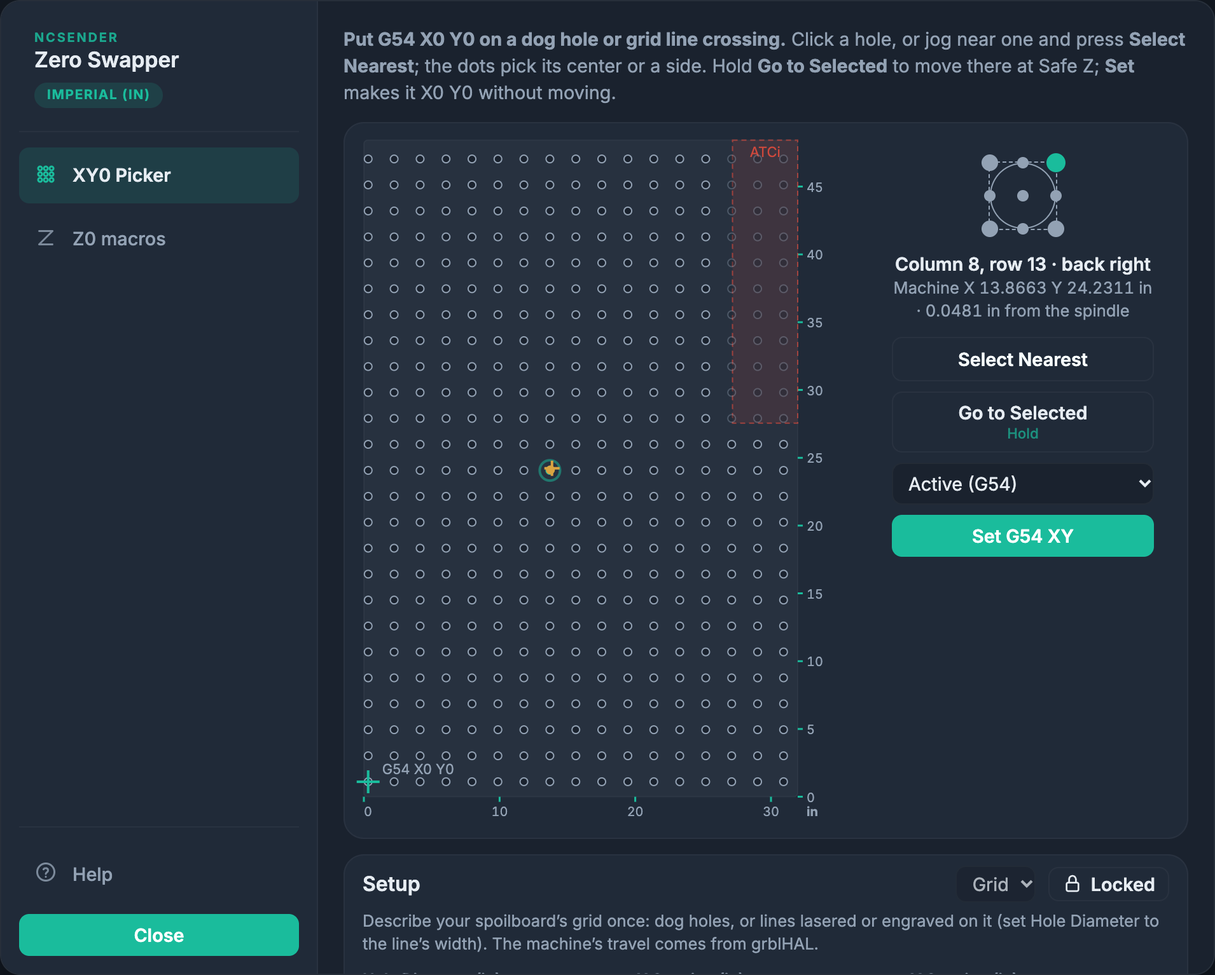
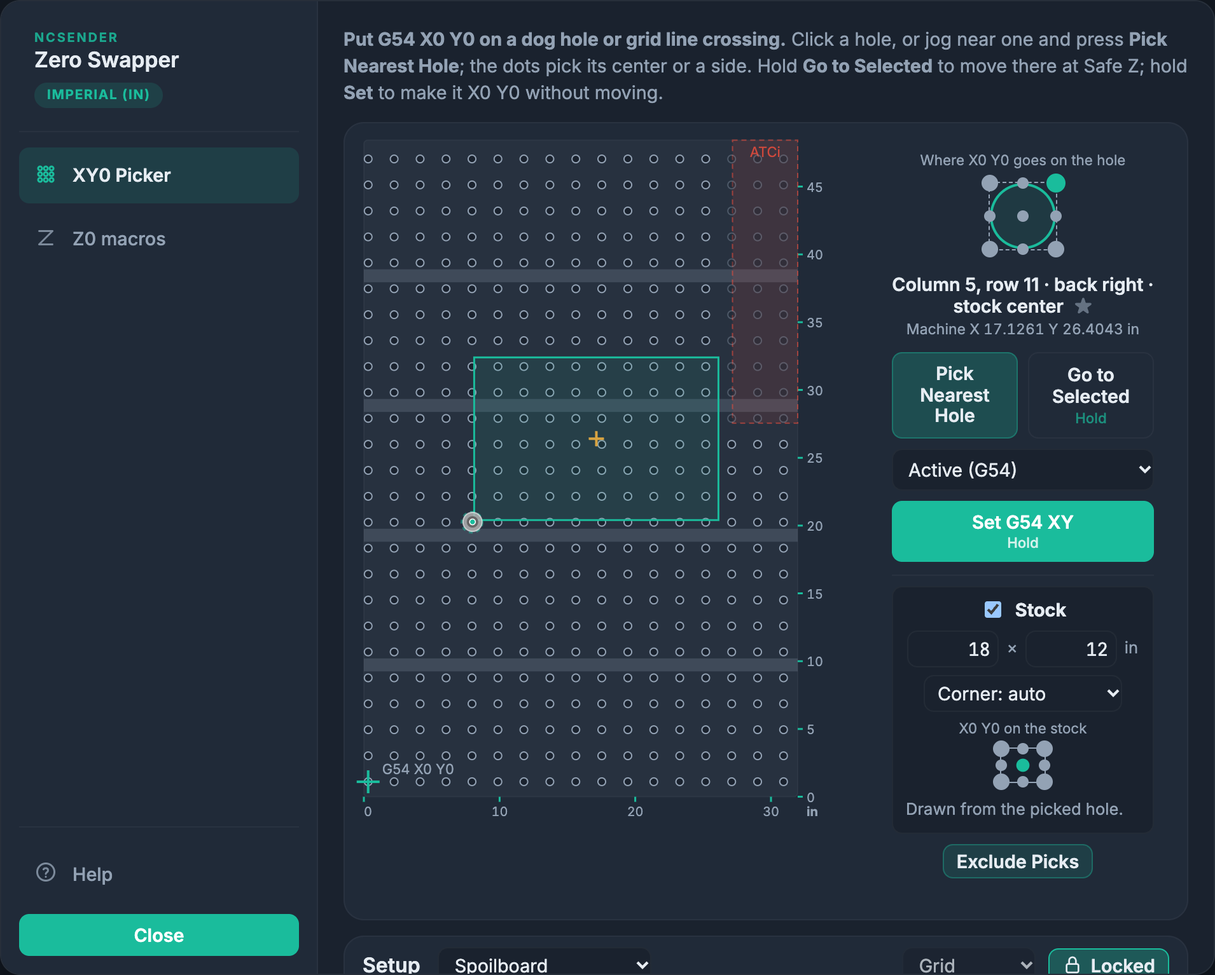
README, Help and changelog for 0.3.34; pre-release review fixes
- README opens with what the plugin does for you: X0 Y0 from a hole in
  seconds, zero anywhere on the stock, Z0 without re-probing, and every
  kind of bed. Help opens each tab the same way. New CHANGELOG.md.
- New README screenshot: the T-track grid, a sheet of stock from a
  picked hole, the spindle, and the hold buttons.
- Stock: picking a hole drops the X0 Y0 anchor, so Set can't fall back
  to an old stock when the picked hole is excluded or hidden; the
  anchor isn't saved between sessions; stock past the travel is drawn
  only to the bed's edge; a note when the menu is on G59.1-G59.3 (not
  reported by ncSender).
- The spindle distance shows only when the hole itself is the target,
  and in ncSender's units in the far-from-hole warning.
- The list placeholder starts simple: x, y; then x, y, diameter; then
  a named point.
- Docs: hold Set; the stock's corner follows Corner; one press near any
  hole; no "never re-probe" overstatement.

Claude-Session: https://claude.ai/code/session_01Hf6iZV4QfttXF3t1Lk5qyD

diff --git a/config.html b/config.html
@@ -551,7 +551,7 @@
         </div>
         <div class="mw-field mw-list-only">
           <label for="mw-hole-list"><span class="mw-ref-only">Holes: X, Y from the reference point, one per line</span><span class="mw-extra-only">Extra holes: X, Y from the first grid&rsquo;s first hole, one per line</span></label>
-          <textarea class="mw-input mw-hole-list" id="mw-hole-list" rows="6" spellcheck="false" placeholder="A: 0, 0&#10;B: 300, 0&#10;pin: 12-1/2&quot;, 6&quot;, 1/4&quot;" title="One hole per line: x, y or name: x, y, measured from the reference point (or, with Grid + List, from the first grid's first hole) into the machine's travel, like the insets. A third value is that hole's own diameter; without one it's the first grid's Hole Diameter (with a List alone, Hole Diameter). Values take mm or inches (6.35mm, 1/4&quot;); bare numbers are in the machine's units."></textarea>
+          <textarea class="mw-input mw-hole-list" id="mw-hole-list" rows="6" spellcheck="false" placeholder="300, 150&#10;120, 40, 6mm&#10;Fixture1: 0, 400, 0" title="One hole per line: x, y or name: x, y, measured from the reference point (or, with Grid + List, from the first grid's first hole) into the machine's travel, like the insets. A third value is that hole's own diameter; without one it's the first grid's Hole Diameter (with a List alone, Hole Diameter). Values take mm or inches (6.35mm, 1/4&quot;); bare numbers are in the machine's units."></textarea>
           <div class="mw-holes-tools">
             <button type="button" class="mw-btn mw-btn-small mw-btn-quiet" id="mw-hole-add" title="Jog the bit over the center of a hole and press this to add it to the list.">Add Current Position</button>
             <span class="mw-hint" id="mw-hole-list-note"></span>
@@ -1851,7 +1851,7 @@
       extras: EXTRAS.filter(function(k) { return $('mw-x-' + k).checked; }),
       holeOrigin: holes.origin, holeProfiles: holes.profiles, holeProfile: holes.profile, holeBlocks: holes.blocks, holeHidden: holes.hidden,
       stockOn: $('mw-stock-on').checked, stockW: fieldVal('mw-stock-w'), stockL: fieldVal('mw-stock-l'),
-      stockCorner: $('mw-stock-corner').value, stockZero: holes.stockZero, stockAnchor: holes.stockAnchor
+      stockCorner: $('mw-stock-corner').value, stockZero: holes.stockZero
     }, setupBody());
     fetch(BASE_URL + '/api/plugins/' + PLUGIN_ID + '/settings', {
       method: 'PUT', headers: { 'Content-Type': 'application/json' }, body: JSON.stringify(body)
@@ -2109,8 +2109,8 @@
     });
     if (/^(auto|front-left|front-right|back-left|back-right)$/.test(saved.stockCorner || '')) $('mw-stock-corner').value = saved.stockCorner;
     setStockZero(saved.stockZero);
-    var sa = saved.stockAnchor;
-    holes.stockAnchor = sa && isFinite(sa.x) && isFinite(sa.y) ? { x: +sa.x, y: +sa.y, wcs: String(sa.wcs || 'G54') } : null;
+    // The stock's X0 Y0 anchor is for this session's job only: not saved.
+    holes.stockAnchor = null;
     holes.profiles = Array.isArray(saved.holeProfiles) ? saved.holeProfiles.filter(function(x) { return x && typeof x.name === 'string' && x.name.trim(); }) : [];
     holes.profile = holes.profiles.some(function(x) { return x.name === saved.holeProfile; }) ? saved.holeProfile : '';
     if (probeBlockMm != null) {
@@ -2277,7 +2277,8 @@
   function stockActive() { return !!stockAt({ x: 0, y: 0 }); }
   // With no hole picked, the stock hangs off the work offset's X0 Y0 as it
   // was when Stock was ticked (holes.stockAnchor, machine mm), not as it
-  // is now: setting X0 Y0 on the stock then doesn't move the stock.
+  // is now: setting X0 Y0 on the stock then doesn't move the stock. Only
+  // for this session, and dropped when a hole is picked.
   function anchorStock() {
     var ms = state.machine || {}, z = xyOf(ms[(WCS_NAMES[holeWcs()] || '').toLowerCase()]);
     holes.stockAnchor = z ? { x: z.x, y: z.y, wcs: WCS_NAMES[holeWcs()] } : null;
@@ -2292,7 +2293,7 @@
   }
   function targetText(t) {
     var stock = stockActive();
-    if (!t.p) return 'the stock\u2019s ' + ORIGIN_NOTES[holes.stockZero] + ' (from ' + holes.stockAnchor.wcs + ' X0 Y0)';
+    if (!t.p) return 'the stock\u2019s ' + ORIGIN_NOTES[holes.stockZero] + ' drawn from ' + holes.stockAnchor.wcs + ' X0 Y0';
     var hole = 'the ' + ORIGIN_NOTES[holes.origin] + ' of ' + holeName(t.p).replace(/^Column/, 'column');
     return stock ? 'the stock\u2019s ' + ORIGIN_NOTES[holes.stockZero] + ' (from ' + hole + ')' : hole;
   }
@@ -2912,6 +2913,7 @@
         (outside ? ', ' + outside + ' outside the machine\u2019s travel (not shown)' : '') + '.';
     }
     if (holes.picked >= holes.grid.length) holes.picked = -1;
+    if (holes.picked < 0) holes.nearMm = null;
     // Machine X right and Y up (back at the top). The bed flush with the card's top left, like the Setup heading below;
     // machine X numbers run along the bottom and Y down the right.
     var minX = t.dirX > 0 ? 0 : -t.xMm, minY = t.dirY > 0 ? 0 : -t.yMm, pad = 1;
@@ -3040,7 +3042,9 @@
     }
     var picked = holes.grid[holes.picked], stock = picked ? stockAt(holePoint(picked)) : stockAt(holes.stockAnchor, true);
     if (stock) {
-      add('rect', { class: 'mw-h-stock', x: X(stock.minX), y: Y(stock.maxY), width: ((stock.maxX - stock.minX) * sc).toFixed(1), height: ((stock.maxY - stock.minY) * sc).toFixed(1) });
+      // Clipped to the bed: stock hanging past the travel stops at its edge.
+      var sx0 = Math.max(stock.minX, minX), sx1 = Math.min(stock.maxX, minX + t.xMm), sy0 = Math.max(stock.minY, minY), sy1 = Math.min(stock.maxY, minY + t.yMm);
+      if (sx1 > sx0 && sy1 > sy0) add('rect', { class: 'mw-h-stock', x: X(sx0), y: Y(sy1), width: ((sx1 - sx0) * sc).toFixed(1), height: ((sy1 - sy0) * sc).toFixed(1) });
     }
     var aim = pickTarget();
     if (aim && (holes.origin !== 'center' || stock)) {
@@ -3063,6 +3067,9 @@
     disarmGoto();
     holes.picked = i;
     holes.nearMm = null;
+    // A hole picked replaces any stock hung off X0 Y0, so if the hole is
+    // later excluded or hidden, Set doesn't quietly fall back to it.
+    holes.stockAnchor = null;
     $('mw-hole-status').textContent = '';
     renderHoles();
     nudgeSet();
@@ -3094,6 +3101,7 @@
     if (!near) { status.setAttribute('data-state', 'bad'); status.textContent = 'Needs the hole grid and the machine\u2019s position.'; return; }
     holes.picked = near.index;
     holes.nearMm = near.distanceMm;
+    holes.stockAnchor = null;
     var any = nearestHole(holes.grid.map(function(g) { return { x: g.x, y: g.y, hidden: g.hidden || (g.col != null && !gridNearest(g)) }; }), here.x, here.y);
     var under = any && (holes.grid[any.index].blocked || holes.grid[any.index].suppressed) ? holes.grid[any.index] : null;
     renderHoles();
@@ -3106,7 +3114,7 @@
       return;
     }
     status.setAttribute('data-state', far ? 'bad' : 'ok');
-    status.textContent = far ? 'The spindle is ' + fmt(near.distanceMm) + ' mm from the nearest hole: check it\u2019s the one you meant before setting X0 Y0.'
+    status.textContent = far ? 'The spindle is ' + shown(near.distanceMm) + ' ' + unitName() + ' from the nearest hole: check it\u2019s the one you meant before setting X0 Y0.'
       : '';
   }
   // A length in ncSender's units, for the readouts (the rulers match).
@@ -3130,7 +3138,9 @@
     else if (problem) $('mw-hole-pos').textContent = (onStock || !p ? 'That point on the stock is ' : 'This side of the hole is ') + problem + ': pick another dot or hole.';
     $('mw-hole-pos').classList.toggle('mw-bad-text', !!problem);
     $('mw-hole-pos').classList.toggle('mw-coords', !!aim && !problem);
-    var dist = aim && !problem && holes.nearMm != null;
+    // The spindle's distance from the hole Pick Nearest Hole took: only
+    // when that hole itself is the target, not a point on the stock.
+    var dist = aim && aim.p && !onStock && !problem && holes.nearMm != null;
     $('mw-hole-dist').hidden = !dist;
     $('mw-hole-dist').textContent = dist ? shown(holes.nearMm) + ' ' + unitName() + ' from the spindle' : '';
     $('mw-hole-set').disabled = !aim || !!problem || holes.busy;
@@ -3139,6 +3149,7 @@
     var on = $('mw-stock-on').checked, a = holes.stockAnchor;
     $('mw-stock-note').textContent = !on ? '' : p ? 'Drawn from the picked hole.'
       : a ? 'No hole picked: drawn from ' + a.wcs + ' X0 Y0 as taken (machine X ' + shown(a.x) + ', Y ' + shown(a.y) + ' ' + unitName() + '); it stays put when X0 Y0 changes.'
+      : holeWcs() > 6 ? 'Pick a hole: ncSender doesn\u2019t report ' + WCS_NAMES[holeWcs()] + '\u2019s X0 Y0, so the stock can only hang off G54\u2013G59.'
       : 'Pick a hole, or set X0 Y0 and press From X0 Y0 now.';
     $('mw-stock-anchor').hidden = !on || !!p;
     suppressButtons();
@@ -3375,7 +3386,8 @@
   var HELP_UNITS = '<strong>Typing units:</strong> size and feed fields take mm or inches, whichever you have to hand, and convert to the machine&rsquo;s units when you leave the field: <kbd>1/4"</kbd>, <kbd>5/4"</kbd>, <kbd>.25in</kbd>, <kbd>1-1/2"</kbd>, <kbd>6.35mm</kbd>, and for feeds <kbd>100ipm</kbd>, <kbd>2540mm/min</kbd>, <kbd>25mm/s</kbd>.';
   var HELP_TOPICS = {
     holes: { name: 'XY0 Picker', notes: [
-      '<strong>For example:</strong> push the stock against bench dogs in the holes, jog roughly near the corner hole, press <strong>Pick Nearest Hole</strong> and <strong>Set</strong> (or one key, with the nearest-hole macro), and X0 Y0 is exactly on the hole: no edge finder, no XY probe, no typing coordinates. Then jog roughly to the opposite corner and run <strong>ZS: Set XY0 to Midpoint</strong> (a Z0 macros extra), and X0 Y0 is the stock&rsquo;s center, without measuring.',
+      '<strong>Your spoilboard&rsquo;s holes are a precision fixture; this turns them into work zero.</strong> Jog roughly near a hole, tap <strong>Pick Nearest Hole</strong>, hold <strong>Set</strong>, and X0 Y0 is exactly on its center or edge: no edge finder, no XY probe, nothing typed, and the same zero next time. Type a stock size to zero on its center or any corner instead. Missing holes, T-tracks, several grids, custom pins and a profile per board are all covered below.',
+      '<strong>For example:</strong> push the stock against bench dogs in the holes, jog roughly near the corner hole, press <strong>Pick Nearest Hole</strong> and hold <strong>Set</strong> (or one key, with the nearest-hole macro), and X0 Y0 is exactly on the hole: no edge finder, no XY probe, no typing coordinates. Then jog roughly to the opposite corner and run <strong>ZS: Set XY0 to Midpoint</strong> (a Z0 macros extra), and X0 Y0 is the stock&rsquo;s center, without measuring.',
       'Puts a work offset&rsquo;s X0 Y0 on a spoilboard hole (a dog hole, say), or on a crossing of a grid lasered or engraved on the spoilboard, without moving the machine: hold <strong>Set</strong> for a second (like Go to, so a stray tap can&rsquo;t change your zero) and it sends G10 L2 with the hole&rsquo;s machine position. The menu beside it picks the work offset: <strong>Active</strong> (the default) is whichever ncSender is using now, or pick any of G54&ndash;G59.3. The machine has to be homed and idle, since the holes are machine positions.',
       'Click a hole on the map, or jog roughly over one and press <strong>Pick Nearest Hole</strong> to take the grid&rsquo;s exact position for the hole nearest the spindle. It warns when the spindle is more than a third of the spacing away.',
       'The dots pick where on the hole the point goes: its center, or an edge or corner one hole radius out in machine X and Y (back is +Y, right is +X). The map marks it on the picked hole.',
@@ -3388,7 +3400,7 @@
       '<strong>From the keyboard:</strong> tick <strong>Nearest hole</strong> under Z0 macros &rsaquo; Extras and press Create macros. That writes <strong>ZS: Go to nearest hole</strong> and <strong>ZS: XY0 on nearest hole</strong>, which work out the nearest hole on the controller, so you can jog roughly and press a key (see the Z0 macros tab&rsquo;s Help for setting one up). They use the grid, the side picked with the dots and the keepout zones as they were when created, so press Create macros again after changing any of them. Go to lifts to Safe Z first (never down); XY0 sets the active work offset. Both stop, changing nothing, if the machine isn&rsquo;t homed; on a grid also if the nearest hole is in a keepout zone or that side of it is outside the travel (with a list, such holes are left out of the macros, so the nearest usable one is used). XY0 (and Set) also stop while a G92 offset is active, since it would shift X0 Y0 away from the hole; G92.1 in the terminal clears it.',
       '<strong>Holes missing from the grid?</strong> Unlock Setup and press <strong>Edit Holes</strong>, then tap each missing hole on the map, or drag a box around several; a box around only suppressed holes restores them. <strong>Done</strong> when finished. Suppressed holes are hidden while Setup is locked and shown as faint solid circles while it&rsquo;s unlocked; Pick Nearest Hole, Go to, Set and the nearest-hole macros skip them. Keep using <strong>Grid</strong> for a regular spacing with gaps: it&rsquo;s quicker to set up than a list, and its macros are shorter and faster.',
       '<strong>Live position:</strong> while you jog, the spindle (the silver ring) moves and the hole nearest it gets a dashed ring, named under the map with its distance.',
-      '<strong>Stock:</strong> tick it and type the stock&rsquo;s width (X) and length (Y). It&rsquo;s drawn from the picked side of the picked hole, running away from the hole (<strong>Corner</strong> overrides which stock corner sits there), and its own box of dots puts X0 Y0 on its center, a corner or an edge. Go to Selected and Set then use that point; the keyboard macros always use the hole. With no hole picked, the stock hangs off X0 Y0 as it was when you ticked Stock (its front left corner there): zero on a corner, tick Stock, and Set its center. It stays put when X0 Y0 changes; <strong>From X0 Y0 now</strong> takes X0 Y0 again.',
+      '<strong>Stock:</strong> tick it and type the stock&rsquo;s width (X) and length (Y). It&rsquo;s drawn from the picked side of the picked hole, running away from the hole (<strong>Corner</strong> overrides which stock corner sits there), and its own box of dots puts X0 Y0 on its center, a corner or an edge. Go to Selected and Set then use that point; the keyboard macros always use the hole. With no hole picked, the stock hangs off X0 Y0 as it was when you ticked Stock (its front left corner there, unless Corner says otherwise): zero on a corner, tick Stock, and hold Set for its center. It stays put when X0 Y0 changes; <strong>From X0 Y0 now</strong> takes X0 Y0 again. That&rsquo;s for this session only, and picking a hole replaces it.',
       '<strong>Exclude Picks:</strong> drag a rectangle over a clamp or fixture that&rsquo;s in the way for this job. This map then won&rsquo;t pick its holes, and Go to and Set won&rsquo;t target a point inside it. That&rsquo;s all it does: it&rsquo;s a note for this picker, not a keepout zone. You can still jog there, jobs still run there, the keyboard macros don&rsquo;t know about it, and Go to only checks where it ends up, not what it passes over at Safe Z. Tap an excluded area to remove it, or Clear Exclusions. Excluded areas aren&rsquo;t part of a profile.',
       '<strong>Favorites:</strong> the star beside the picked hole&rsquo;s name keeps it as a favorite (a jig&rsquo;s home hole, say): ringed on the map and listed under it, one tap to pick. They&rsquo;re kept in the board&rsquo;s profile.',
       '<strong>More than one grid</strong> (large dog holes and a small pin grid, say): press <strong>+ Grid</strong> under Setup&rsquo;s heading (Setup unlocked) to add one, starting as a copy of the grid you&rsquo;re on, and press a grid&rsquo;s chip to edit it below. Each has its own name, diameter, spacing, insets, T-tracks and suppressed holes. <strong>Use for Nearest</strong> decides whether Pick Nearest Hole and the keyboard macros snap to it; <strong>Remove Grid</strong> deletes it. The eye on a chip shows or hides its holes on the map, for picking or suppressing where grids overlap. Hidden holes can&rsquo;t be picked on the map or by Pick Nearest Hole, but the keyboard macros still use them (untick Use for Nearest to leave a grid out of those too).',
@@ -3398,6 +3410,7 @@
       '<strong>Lasered or engraved grid, no holes?</strong> Treat each line crossing as a hole: set <strong>Hole Diameter</strong> to the line&rsquo;s width (the laser line&rsquo;s width, or a V-bit&rsquo;s kerf width at the surface), and the spacings and insets to the lines&rsquo; centers. The center dot then puts X0 Y0 on the middle of the crossing, and a corner dot on the edges of the two lines, e.g. back right for the +X +Y edges, where a square stop would sit. 0 treats the lines as hairlines.',
       HELP_UNITS ] },
     macros: { name: 'Z0 macros', notes: [
+      '<strong>Probe the spoilboard once, and stop re-probing Z on every tool change.</strong> With measured tools (a tool setter or an ATC), one macro puts Z0 on the spoilboard and another on the stock top, for whichever tool is loaded, and a third puts your own Z0 back. Put them on keys and switching Z0 is a single press.',
       'Record the spoilboard height once with a probe block and a measured tool; then the <strong>ZS:</strong> macros put work Z0 on the spoilboard or the stock top for any measured tool, and put your old Z0 back.',
       '<strong>Run checks</strong> confirms the controller supports the parameters and expressions the macros use. Run it once, and again after a firmware change.',
       'The values are kept in spare work offsets (G59.1&ndash;G59.3 Z by default); pick ones you don&rsquo;t use. Re-record the spoilboard height after surfacing it.',

diff --git a/README.md b/README.md
@@ -1,25 +1,32 @@
 # Zero Swapper
 
-**Probe your spoilboard once. After that, with any measured tool, one click puts Z0 on the
-spoilboard or on top of your stock — no probing, no math. Another click puts your old Z0 back.**
+**Your spoilboard's holes are already a precision fixture. Zero Swapper turns them into work zero.**
 
-**Set X0 Y0 on your spoilboard's dog hole grid (or a lasered / engraved grid) in two taps:** pick a
-hole on a map of your CNC's bed, or jog near one and let the plugin snap to the grid, and the work
-offset lands exactly on it. Extras find X/Y zero at a midpoint and save / restore it for fixtures.
+- **X0 Y0 in seconds, no probe.** Jog roughly near a dog hole, tap **Pick Nearest Hole**, hold
+  **Set**: work zero lands exactly on the hole's center or edge. No edge finder, no XY probe, no
+  coordinates typed into the terminal, and the same holes give the same zero next time. Put it on a
+  key and it's one press near any hole.
+- **Zero anywhere on the stock, no tape measure.** Type the stock's size and put X0 Y0 on its center
+  or any corner or edge, drawn right on the map.
+- **Z0 without re-probing.** Probe the spoilboard once. After that, any measured tool puts Z0 on the
+  spoilboard or the stock top in one click, and another click puts your old Z0 back.
+- **Fits the bed you actually have.** Missing holes, T-track panels, dog holes plus a pin grid, custom
+  locating pins, lasered or V-carved grid lines, keepout zones, and a saved profile for every board.
 
 Zero Swapper is a plugin for [ncSender](https://github.com/siganberg/ncSender), the G-code sender for
-grblHAL CNC routers. Its **XY0 Picker** tab sets the XY work origin (G54–G59.3) on a hole or grid line
-without moving the machine; its **Z0 macros** tab checks your grblHAL controller, then writes ncSender
-macros you run from the Macros tab or, best of all, a keyboard shortcut.
+grblHAL CNC routers. Its **XY0 Picker** shows your machine's bed with every hole on it, live as you jog,
+and sets the work offset (G54–G59.3) without moving the machine. Its **Z0 macros** tab checks your
+grblHAL controller, then writes ncSender macros you run from the Macros tab or, best of all, a
+keyboard shortcut.
 
-![Zero Swapper's XY0 Picker in ncSender: a map of the CNC bed's dog hole grid with a hole picked,
-the ATCi tool rack's keepout zone in red, and the Pick Nearest Hole, Go to Selected and Set G54 XY
-buttons](docs/xy0-picker.png)
+![Zero Swapper's XY0 Picker in ncSender: a map of the CNC bed's dog hole grid between T-tracks, a
+hole picked with a sheet of stock drawn from it, the spindle, the ATCi tool rack's keepout zone in
+red, and the Pick Nearest Hole, Go to Selected and Set G54 XY buttons](docs/xy0-picker.png)
 
 ## What a job looks like
 
 **Zero on a stock corner, no probing.** Push the stock against bench dogs in your spoilboard holes,
-jog roughly near the corner hole (a few mm off is fine), and press **Pick Nearest Hole** then **Set**, or
+jog roughly near the corner hole (a few mm off is fine), and press **Pick Nearest Hole** then hold **Set**, or
 one key with the nearest-hole macro. X0 Y0 lands exactly on the hole's edge or center, with no edge
 finder, no XY probe and nothing typed into the terminal. Use the same holes next time and you get the
 same zero back.
@@ -240,8 +247,9 @@ direction come from grblHAL's `$130`/`$131` and homing settings
   stock's front left corner; **Corner** overrides that). The second box of dots picks where X0 Y0 goes
   on the stock: its center, a corner or an edge. **Go to Selected** and **Set** then use that point.
   With no hole picked, the stock is drawn from the work offset's X0 Y0 as it was when you ticked
-  Stock (its front left corner there), so you can zero on a corner, tick Stock, and Set its center.
-  It stays put when X0 Y0 changes; **From X0 Y0 now** takes X0 Y0 again. The keyboard macros always
+  Stock (its front left corner there, unless **Corner** says otherwise), so you can zero on a corner,
+  tick Stock, and hold Set for its center. It stays put when X0 Y0 changes; **From X0 Y0 now** takes
+  X0 Y0 again. That's for the current session only, and picking a hole replaces it. The keyboard macros always
   use the hole itself.
 - **Exclude Picks:** a clamp or fixture in the way for this job? Press **Exclude Picks** and drag a
   rectangle over it. This map then won't pick its holes, Pick Nearest Hole skips them, and Go to and Set

diff --git a/CHANGELOG.md b/CHANGELOG.md
@@ -1,0 +1,65 @@
+# Changelog
+
+What's new in each release of Zero Swapper. Install or update from
+[Releases](https://github.com/tmuka/ncsender-plugin-zero-swapper/releases).
+
+## 0.3.34
+
+**Every kind of bed: more grids, pins with their own size, and controls that guide you.**
+
+### ✨ New
+- **More than one grid.** Large dog holes and a small pin grid? Press **+ Grid** under Setup's
+  heading. Each grid has its own name, hole size, spacing, insets, T-tracks and suppressed holes. Pick
+  a grid's chip to edit it, use the eye to show or hide its holes on the map (handy where grids
+  overlap), and untick **Use for Nearest** to keep a grid out of Pick Nearest Hole and the keyboard
+  macros.
+- **Grid + List.** Add extra holes to a grid, such as locating pins or a fixture's holes, measured
+  from the grid's first hole. Give any hole its own diameter as a third value (`pin: 130, 40, 6mm`).
+  The map draws it at that size, and X0 Y0 goes on its own edge.
+- **Stock from X0 Y0.** With no hole picked, ticking **Stock** draws it from your current X0 Y0:
+  zero on a corner, tick Stock, and hold Set to move zero to its center. The stock stays put when
+  X0 Y0 changes (for this session; picking a hole replaces it); **From X0 Y0 now** takes X0 Y0
+  again.
+
+### 🎯 Easier to use
+- **Edit Holes works like a selection box.** Drag a box around holes to suppress them all, drag
+  around suppressed ones to bring them back, or tap one. Suppressed holes show as faint discs.
+- **Set is a hold button**, like Go to Selected, so a stray tap can't move your zero. It pulses after
+  you pick a hole to show it's the next step.
+- **Clearer buttons and labels.** Secondary buttons are tinted so they read as buttons; the dots are
+  captioned "Where X0 Y0 goes on the hole"; the stock controls sit in their own panel; **Pick
+  Nearest Hole** and **Go to Selected** sit side by side in the narrow column.
+- **The spindle looks like ncSender's**: a top-down view of its cutter, with a dot at the bit's
+  center.
+- **Exclude Picks** (was Block Area) says plainly that it only guides this picker: jogging, jobs and
+  the keyboard macros ignore it.
+- The picked point's machine position fits on one line.
+
+### 🐛 Fixes
+- A work offset whose X0 Y0 is off the machine's travel no longer draws outside the map. It's pinned
+  to the nearest edge in red, labelled "off the bed".
+- The Z0 tab's macro preview updates as you edit Setup.
+- Keyboard macros: an extra hole just outside a keepout zone's corner is skipped cleanly instead of
+  stopping the macro, and Create macros says which grid to fix if one can't be read.
+
+## 0.3.33
+
+**Holes your board leaves out, profiles for every board, and zeroing anywhere on your stock.**
+
+### ✨ New
+- **Suppress missing holes** so the map, Pick Nearest Hole, Go to, Set and the keyboard macros skip
+  them.
+- **Profiles**: keep one Setup per spoilboard or fixture plate, with Save and Revert when you
+  experiment.
+- **Stock**: type its size to zero on its center, any corner or any edge.
+- **Exclude areas** of the map for a job, such as a clamp or fixture.
+- **Favorite holes**: starred, ringed on the map and one tap to pick.
+- **Live position**: the spindle and the hole nearest it follow you as you jog.
+
+## Earlier
+
+- **0.3.32**: safety hardening; every move and offset line is guarded by the same checks as the
+  macros' stop lines. Needs ncSender 2.0.163.
+- **0.3.31**: plugin icon. **0.3.30**: map rulers. **0.3.28**: hole lists. **0.3.27**: nearest-hole
+  keyboard macros and G92 guards. **0.3.23**: T-track panels. **0.3.21**: the XY0 Picker.
+- **0.3.4**: first release as Zero Swapper: Z0 on the spoilboard or stock top for any measured tool.

diff --git a/CLAUDE.md b/CLAUDE.md
@@ -29,6 +29,7 @@ Stock top is `spoilboard + thickness`, with the thickness typed or measured by p
 | `icon.svg`, `icon.png` | The plugin icon (Plugins panel, tool menu, registry): the hole grid with X0 Y0 on ncSender's green. Edit the SVG and re-render the 512 px PNG. |
 | `.scripts/build.sh` | `dist/<id>_v<version>.zip` from the committed files (`git archive`), under a `<id>/` folder as the Plugin Manager expects; tests, scripts, `docs/` (README images) and this file left out. |
 | `README.md` | User guide: the wizard steps, how the macros work, units, requirements. |
+| `CHANGELOG.md` | User-facing notes per release (ships in the zip); the GitHub release notes are drawn from it. |
 
 ### `config.html`
 
